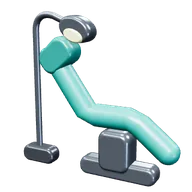
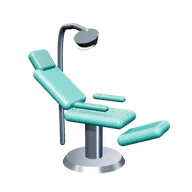
Símbolos de Salud modelados en 3D real (17 más): cofia, suero, curita, cubrebocas, sillón dental, cepillo, espejo dental, pasta, hilo dental, camilla, mancuerna, muleta, cápsula, frasco, blíster, gotero y mortero

diff --git a/datos/simbolos3d/models.js b/datos/simbolos3d/models.js
@@ -34,10 +34,141 @@ export function kit(material,g){
   return K;
 }
 
-const PU='#8E5BB5';const GY='#8C96A0',ST='#A9B6C2',BK='#3A4048',WH='#F3F1EA',RE='#DE4A3C',BL='#3F82C4',GR='#4FAE5B',YE='#F6CD3B',BR='#8A5A36',WO='#B9804B',GO='#E8B53C',NA='#2D4A6E',CR='#F0E2C2',SK='#E7A97C';
+const PU='#8E5BB5',TE='#2FA39A';const GY='#8C96A0',ST='#A9B6C2',BK='#3A4048',WH='#F3F1EA',RE='#DE4A3C',BL='#3F82C4',GR='#4FAE5B',YE='#F6CD3B',BR='#8A5A36',WO='#B9804B',GO='#E8B53C',NA='#2D4A6E',CR='#F0E2C2',SK='#E7A97C';
 
 const circ=(cx,cy,r,n,a0,a1)=>{a0=a0==null?0:a0;a1=a1==null?Math.PI*2:a1;const o=[];for(let i=0;i<n;i++){const a=a0+(a1-a0)*i/(n-(Math.abs(a1-a0-Math.PI*2)<1e-6?0:1));o.push([cx+Math.cos(a)*r,cy+Math.sin(a)*r])}return o};
 export const MODELS={
+  // Cofia de enfermera con cruz roja al frente
+  'enfermeria.a'(K){
+    K.lathe([[0.01,0],[31,0],[30,4],[24,16],[14,24],[0.01,26]],WH,{s:[1,1,0.8]});
+    K.box(66,6,30,WH,{p:[0,0,2],rad:3});
+    K.box(14,4,1,RE,{p:[0,14,23.6],rad:0.6});K.box(4,14,1,RE,{p:[0,14,23.6],rad:0.6});
+    K.box(14,4,1,RE,{p:[0,14,-23.6],rad:0.6});K.box(4,14,1,RE,{p:[0,14,-23.6],rad:0.6});
+  },
+  // Bolsa de suero colgando con puerto, cámara de goteo y tubo
+  'o_suero.a'(K){
+    K.box(44,54,10,'#EEF6FA',{m:'glass',p:[0,8,0],rad:5});
+    K.box(40,30,7,'#F2D36B',{p:[0,-2,0],rad:3.4});
+    K.box(26,10,1,WH,{p:[0,24,5.4],rad:1});K.box(18,1.2,1.2,'#7FA8D6',{p:[0,25,6],rad:0.4});
+    K.tor(4,1.2,'#C9D3DA',{p:[0,39,0]});
+    for(let i=0;i<4;i++)K.box(5,0.7,0.6,'#C9A23A',{p:[-16,-10+i*6,5.3],rad:0.2});
+    K.cyl(3,3,6,'#E6ECEF',{p:[0,-22,0]});K.cyl(4.2,4.2,12,'#EEF6FA',{m:'glass',p:[0,-31,0]});K.cyl(1,1,16,'#C9D3DA',{p:[0,-44,0]});
+  },
+  // Curita con almohadilla y orificios, en relieve
+  'o_curita.a'(K){
+    const g=K.group({r:[0,0,-35]});
+    K.box(84,24,3,'#E8B98C',{rad:1.4,parent:g});
+    [-36,36].forEach(x=>K.cyl(12,12,3,'#E8B98C',{p:[x*0.9,0,0],r:[90,0,0],parent:g}));
+    K.box(30,20,3.6,'#F6E2CC',{rad:1.2,parent:g});
+    for(const x of [-28,-20,20,28])for(const y of [-5,5])[1.6,-1.6].forEach(z=>K.cyl(0.9,0.9,0.4,'#B8875C',{p:[x,y,z],r:[90,0,0],parent:g}));
+  },
+  // Cubrebocas con pliegues y ligas
+  'o_cubrebocas.a'(K){
+    const g=K.group({});
+    for(let i=0;i<3;i++)K.box(60,11,4,'#CFE8F7',{p:[0,10-i*10,-i*0.6],rad:2,parent:g});
+    K.box(60,34,1.2,'#BFE0F5',{p:[0,0,-2.6],rad:0.6,parent:g});
+    K.box(14,1.2,2,'#9AC4E0',{p:[0,16,2],rad:0.5,parent:g});
+    [-1,1].forEach(sd=>K.tube([[sd*30,12,-1],[sd*44,10,-8],[sd*44,-10,-8],[sd*30,-12,-1]],1,'#E6EEF4',{parent:g,nocap:true}));
+  },
+  // Sillón dental reclinado con lámpara
+  'o_sillon.a'(K){
+    K.cyl(16,18,3,ST,{m:'metal',p:[0,-34,0]});K.cyl(5,5,22,ST,{m:'metal',p:[0,-22,0]});
+    K.box(36,6,22,TE,{p:[4,-8,0],rad:3});
+    K.box(30,6,22,TE,{p:[-22,6,0],r:[0,0,-40],rad:3});
+    K.box(26,6,18,TE,{p:[30,-14,0],r:[0,0,22],rad:3});
+    K.box(14,6,16,'#2B8A82',{p:[-34,20,0],r:[0,0,-55],rad:3});
+    [[-11],[11]].forEach(([z])=>K.box(20,3,4,'#2B8A82',{p:[4,0,z],rad:1.4}));
+    K.tube([[-30,-34,-14],[-30,30,-14],[-20,40,-10],[-6,38,-4]],1.6,GY,{m:'metal'});
+    K.cyl(7,5,5,ST,{m:'metal',p:[-4,34,0],r:[30,0,0]});K.cyl(5,5,0.6,'#FFF1B0',{p:[-4,31.6,1.4],r:[30,0,0]});
+  },
+  // Cepillo de dientes con cerdas
+  'odontologia.b'(K){
+    const g=K.group({r:[0,0,-30]});
+    K.box(10,70,6,BL,{p:[0,-12,0],rad:3,parent:g});K.box(12,20,7,'#7FC8F0',{p:[0,-34,0],rad:3,parent:g});
+    K.box(10,22,4,BL,{p:[0,32,0],rad:2,parent:g});
+    for(let r=0;r<6;r++)for(let c=0;c<3;c++)K.cyl(1.2,1.2,10,c==1?'#7FC8F0':WH,{p:[-3+c*3,24+r*3.2,6.5],r:[90,0,0],parent:g});
+  },
+  // Espejo dental: mango, cuello y espejo
+  'o_espejo.a'(K){
+    const g=K.group({r:[0,0,-35]});
+    K.cyl(2.6,2.2,56,ST,{m:'metal',p:[0,-12,0],parent:g});
+    for(let i=0;i<6;i++)K.tor(2.7,0.4,'#8994A0',{m:'metal',p:[0,-30+i*3,0],r:[90,0,0],parent:g});
+    K.tube([[0,16,0],[0,26,0],[2,32,2]],1,ST,{m:'metal',parent:g});
+    const m=K.group({p:[3,38,3],r:[50,0,0],parent:g});K.cyl(8,8,2.4,'#8994A0',{m:'metal',parent:m});K.cyl(7,7,2.6,'#DDF1FA',{m:'glass',parent:m});
+  },
+  // Pasta de dientes: tubo con pliegue y tapa
+  'o_pasta.a'(K){
+    const g=K.group({r:[0,0,-15]});
+    K.lathe([[0.01,-34],[10,-33],[12,-20],[12,24],[9,30],[5,32],[0.01,32]],WH,{s:[1,1,0.55],parent:g});
+    K.box(26,4,5,'#D5DCE2',{p:[0,-36,0],rad:1,parent:g});
+    for(let i=0;i<5;i++)K.box(26,0.6,5.6,'#A9B6C2',{p:[0,-37.5+i*0.8,0],rad:0.2,parent:g});
+    K.cyl(6,6,10,BL,{p:[0,37,0],parent:g});
+    for(let i=0;i<10;i++){const a=i/10*Math.PI*2;K.box(0.8,9,0.8,'#2C5E91',{p:[Math.cos(a)*6.1,37,Math.sin(a)*6.1],parent:g})}
+    K.box(16,22,0.8,BL,{p:[0,0,6.7],rad:1,parent:g});K.box(16,22,0.8,BL,{p:[0,0,-6.7],rad:1,parent:g});
+  },
+  // Hilo dental: dispensador con tapa y hilo saliendo
+  'o_hilo.a'(K){
+    K.box(44,40,22,WH,{p:[0,-8,0],rad:6});K.box(46,14,24,'#5FB4D9',{p:[0,16,0],rad:6});
+    K.box(22,10,1,'#E3F2F9',{p:[0,-8,11.4],rad:1.4});K.box(16,1.4,1.4,'#5FB4D9',{p:[0,-8,12],rad:0.5});
+    K.tube([[16,22,0],[24,34,0],[34,38,0]],0.6,'#DDEFF7',{});
+  },
+  // Camilla con colchón, almohada, barandal y ruedas
+  'o_camilla.a'(K){
+    K.box(80,6,30,'#5FB4D9',{p:[0,6,0],rad:3});K.box(20,6,24,WH,{p:[-28,11,0],rad:3});
+    K.box(84,2,30,ST,{m:'metal',p:[0,2,0],rad:0.8});
+    [[-34,-12],[-34,12],[34,-12],[34,12]].forEach(([x,z])=>{K.cyl(1.4,1.4,26,ST,{m:'metal',p:[x,-12,z]});K.cyl(3.4,3.4,2.6,BK,{p:[x,-27,z],r:[90,0,0]})});
+    K.cyl(1.2,1.2,70,ST,{m:'metal',p:[0,-20,12],r:[0,0,90]});K.cyl(1.2,1.2,70,ST,{m:'metal',p:[0,-20,-12],r:[0,0,90]});
+    K.tube([[-30,2,16],[-30,14,16],[30,14,16],[30,2,16]],1,ST,{m:'metal',tension:0.1});
+  },
+  // Mancuerna hexagonal
+  'fisioterapia.b'(K){
+    K.cyl(4,4,40,ST,{m:'metal',r:[0,0,90]});
+    for(let i=0;i<14;i++)K.tor(4.05,0.35,'#7C8792',{m:'metal',p:[-9+i*1.4,0,0],r:[0,90,0]});
+    [-1,1].forEach(sd=>{K.cyl(14,14,18,BK,{p:[sd*28,0,0],r:[0,0,90],seg:6});K.cyl(5,5,18.4,ST,{m:'metal',p:[sd*28,0,0],r:[0,0,90]})});
+  },
+  // Muleta de antebrazo con abrazadera, agarradera y regatón
+  'o_muleta.a'(K){
+    K.cyl(2.6,2.6,70,ST,{m:'metal',p:[0,-6,0]});
+    for(let i=0;i<6;i++)K.cyl(0.8,0.8,0.4,'#3A4048',{p:[0,-30+i*5,2.6],r:[90,0,0]});
+    K.box(6,8,6,'#3A4048',{p:[0,30,0],rad:2});K.tube([[0,32,0],[0,40,-4]],2.4,ST,{m:'metal'});
+    K.tor(8,2.6,'#3A4048',{p:[0,46,-8],arc:220,r:[90,0,-20]});
+    K.box(22,7,8,'#2B3540',{p:[10,10,0],rad:3});
+    K.cyl(3.8,3,8,'#2B3540',{p:[0,-44,0]});
+  },
+  // Cápsula de dos colores
+  'qfb.a'(K){
+    const g=K.group({r:[0,0,-50]});
+    K.cap(12,26,RE,{p:[0,-9,0],parent:g});K.cap(12.4,24,WH,{p:[0,10,0],parent:g});
+  },
+  // Frasco de medicina con tapa estriada y etiqueta con cruz
+  'qfb.b'(K){
+    K.box(44,50,30,'#C9852F',{m:'glass',p:[0,-6,0],rad:8});
+    K.cyl(12,12,6,'#C9852F',{m:'glass',p:[0,21,0]});
+    K.cyl(16,16,12,WH,{p:[0,28,0]});for(let i=0;i<24;i++){const a=i/24*Math.PI*2;K.box(0.8,11,0.8,'#D9DCD6',{p:[Math.cos(a)*16.1,28,Math.sin(a)*16.1]})}
+    [15.2,-15.2].forEach(z=>{K.box(36,24,0.8,WH,{p:[0,-6,z],rad:1});K.box(12,4,1.4,RE,{p:[0,-6,z],rad:0.5});K.box(4,12,1.4,RE,{p:[0,-6,z],rad:0.5})});
+  },
+  // Blíster de pastillas con burbujas
+  'o_blister.a'(K){
+    K.box(64,74,2,'#DCE2E8',{rad:3});
+    for(let r=0;r<3;r++)for(let c=0;c<2;c++){const p=[-14+c*28,-22+r*22,1];K.sph(9,'#EEF6FA',{m:'glass',p,s:[1,0.8,0.5]});
+      K.cap(5,6,r==0&&c==1?'#F2A94C':WH,{p:[p[0],p[1],2],r:[0,0,90]})}
+    K.box(64,74,0.6,'#C9D0D6',{p:[0,0,-1.3],rad:3});
+  },
+  // Gotero con perilla de hule y vidrio
+  'o_gotero.a'(K){
+    const g=K.group({r:[0,0,-20]});
+    K.cap(8,10,RE,{p:[0,32,0],parent:g});K.cyl(9,9,4,'#3A4048',{p:[0,22,0],parent:g});
+    K.lathe([[0.01,-34],[1.2,-33],[3,-20],[5,-6],[5,20],[0.01,20]],'#E6F4FA',{m:'glass',parent:g});
+    K.lathe([[0.01,-32],[1,-31],[2.6,-20],[4,-8],[4,2],[0.01,2]],'#8FC4E6',{parent:g});
+    K.sph(2.6,'#8FC4E6',{p:[0,-42,0],s:[1,1.3,1],parent:g});
+  },
+  // Mortero con mano
+  'o_mortero.a'(K){
+    K.lathe([[0.01,-24],[16,-24],[17,-20],[26,-6],[30,10],[28,12],[24,0],[0.01,-8]],'#E9E3D6');
+    K.cyl(24,24,1,'#B8AF9E',{p:[0,6,0]});
+    K.cap(4.5,40,'#D5CEC0',{p:[12,20,0],r:[0,0,-35]});
+  },
+
   // Llave española: boca abierta inclinada 15° arriba, estrella cerrada abajo, mango con rebaje
   'mecanica.a'(K){
     const g=K.group({r:[0,0,-40]});
